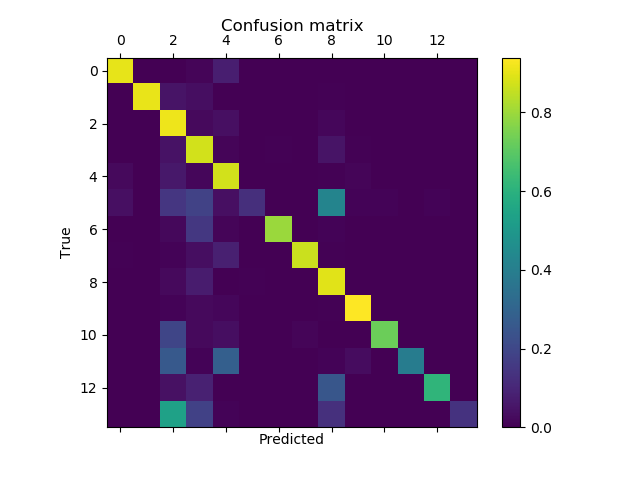
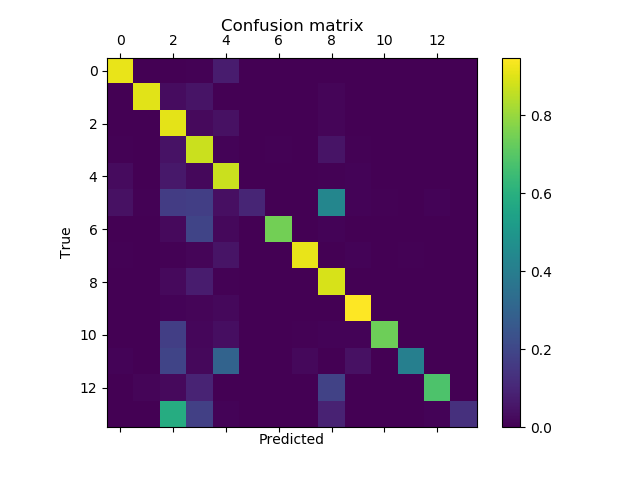
Recreating model

diff --git a/HeavyWater-text-class-model-preprocessing.py b/HeavyWater-text-class-model-preprocessing.py
@@ -1,9 +1,9 @@
 import pandas as pd
 import numpy as np
+import joblib
 from sklearn.feature_extraction.text import CountVectorizer, TfidfTransformer
 from sklearn.model_selection import train_test_split
 from sklearn.pipeline import Pipeline
-from sklearn.externals import joblib
 from imblearn.over_sampling import SMOTE
 
 df = pd.read_csv('shuffled-full-set-hashed.csv', header=None,
@@ -19,9 +19,9 @@ with open('label_to_id.pkl', 'wb') as file:
 with open('id_to_label.pkl', 'wb') as file:
     joblib.dump(id_to_label, file)
 train, test, train_labels, test_labels = train_test_split(df['data'],
-    df['label_id'], test_size=0.4, random_state=42, stratify=df['label_id'])
+    df['label_id'], test_size=0.4, random_state=42)
 with open('test.pkl', 'wb') as file:
-    test.to_pickle(file)
+    pd.to_pickle(test, file)
     pd.to_pickle(test_labels, file)
 with open('train.pkl', 'wb') as file:
     pd.to_pickle(train, file)

diff --git a/HeavyWater-text-class-model-test.py b/HeavyWater-text-class-model-test.py
@@ -1,5 +1,6 @@
 import pandas as pd
 import numpy as np
+import joblib
 import matplotlib.pyplot as plt
 from sklearn.feature_extraction.text import CountVectorizer, TfidfTransformer
 from sklearn.linear_model import LogisticRegression
@@ -7,7 +8,6 @@ from sklearn.svm import LinearSVC
 from sklearn.ensemble import VotingClassifier
 from sklearn.metrics import confusion_matrix, classification_report
 from sklearn.pipeline import Pipeline
-from sklearn.externals import joblib
 
 with open('test.pkl', 'rb') as file:
     test = pd.read_pickle(file)
@@ -29,4 +29,4 @@ plt.title('Confusion matrix')
 fig.colorbar(cax)
 plt.xlabel('Predicted')
 plt.ylabel('True')
-plt.savefig('confusion_matrix.png')
+plt.savefig('confusion-matrix.png')

diff --git a/HeavyWater-text-class-model-train.py b/HeavyWater-text-class-model-train.py
@@ -1,12 +1,12 @@
 import pandas as pd
 import numpy as np
+import joblib
 from sklearn.feature_extraction.text import CountVectorizer, TfidfTransformer
 from sklearn.svm import LinearSVC
 from sklearn.multiclass import OneVsRestClassifier
 from sklearn.calibration import CalibratedClassifierCV
 from sklearn.model_selection import cross_val_score
 from sklearn.pipeline import Pipeline
-from sklearn.externals import joblib
 
 with open('train.pkl', 'rb') as file:
     train = pd.read_pickle(file)

diff --git a/application.py b/application.py
@@ -1,8 +1,8 @@
 import pandas as pd
 import numpy as np
 import os
+import joblib
 from sklearn.pipeline import Pipeline
-from sklearn.externals import joblib
 from sklearn.feature_extraction.text import CountVectorizer, TfidfTransformer
 from sklearn.linear_model import LogisticRegression
 from flask import Flask, render_template, redirect, request
